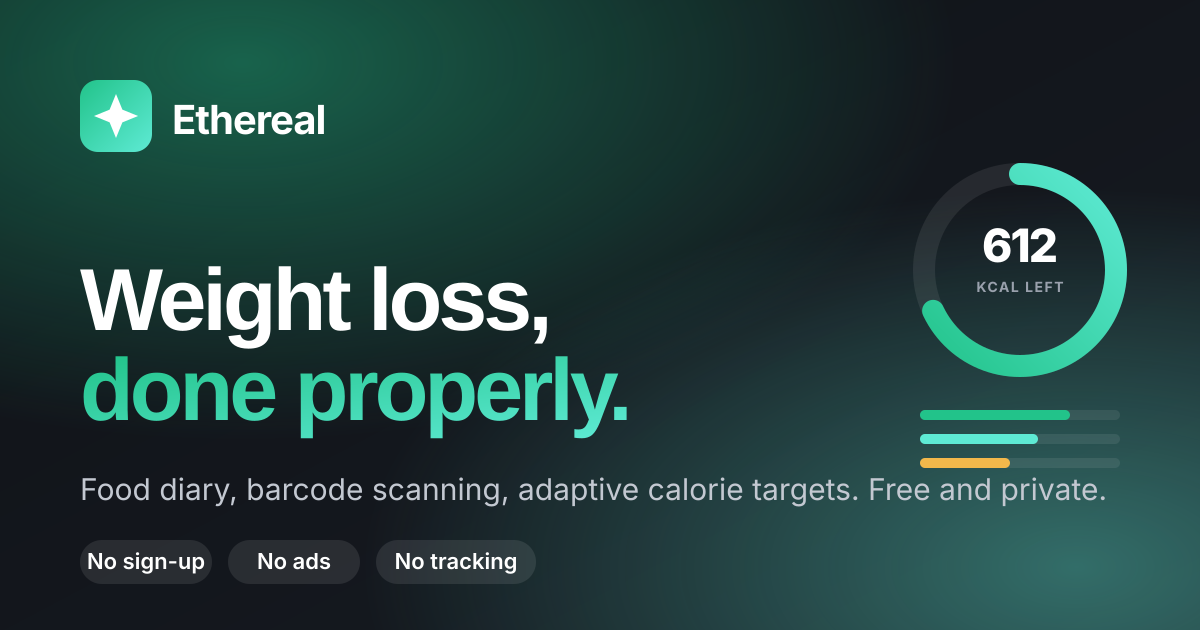
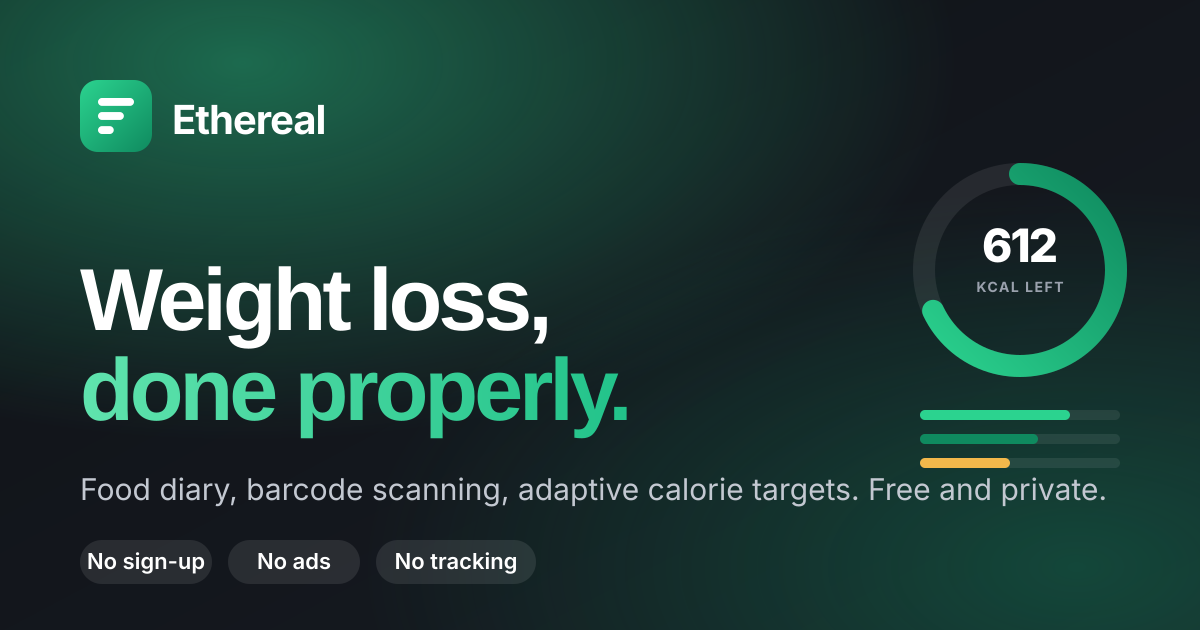
New mark, hero polish, and a real fix for phone-width overflow
- Logo: an "E" of three bars that get shorter, a letter and a downward
  trend in one shape; used in the header, footer, favicon, app icons and
  every social card.
- Home: floating trend and protein cards beside the phone, section
  eyebrows, gradient numerals in the numbers strip, a faint glow at the
  top of every page, a livelier calorie ring.
- Eating out: the chain sections sized the page to the widest table on
  phones, which pushed the order bar and "Best order" button off-screen
  on CI's mobile run. Grid columns are now minmax(0, 1fr) and sections
  min-w-0, so nothing overflows on any page (checked on 16 routes), and
  the root overflow clip that masked it is gone.
- Tests run with reduced motion for deterministic geometry; the Escape
  shortcut test retries across the sheet's hydration frame.

Claude-Session: https://claude.ai/code/session_01GyztRj6Jw5HwqMksHqf4CU

diff --git a/src/styles/global.css b/src/styles/global.css
@@ -49,6 +49,7 @@
 
   --animate-rise: rise 0.6s cubic-bezier(0.22, 1, 0.36, 1) backwards;
   --animate-fade: fade 0.5s ease-out backwards;
+  --animate-float: float 6s ease-in-out infinite;
 
   @keyframes rise {
     from {
@@ -68,6 +69,15 @@
       opacity: 1;
     }
   }
+  @keyframes float {
+    0%,
+    100% {
+      transform: translateY(0);
+    }
+    50% {
+      transform: translateY(-8px);
+    }
+  }
 }
 
 /* Semantic tokens: light by default, swapped under [data-theme=dark]. */
@@ -81,6 +91,7 @@
   --border: var(--color-ink-200);
   --border-strong: var(--color-ink-300);
   --ring: var(--color-brand-500);
+  --glow: oklch(94% 0.045 160 / 0.7);
   color-scheme: light;
 }
 [data-theme='dark'] {
@@ -92,18 +103,19 @@
   --fg-subtle: oklch(64% 0.01 250);
   --border: oklch(100% 0 0 / 0.09);
   --border-strong: oklch(100% 0 0 / 0.16);
+  --glow: oklch(63% 0.15 160 / 0.1);
   color-scheme: dark;
 }
 
 @layer base {
   html {
-    overflow-x: clip;
     scroll-behavior: smooth;
     text-rendering: optimizeLegibility;
     -webkit-font-smoothing: antialiased;
   }
   body {
-    background: var(--bg);
+    /* A faint glow at the top of every page gives the flat surfaces some depth. */
+    background: radial-gradient(70rem 28rem at 50% -14rem, var(--glow), transparent 70%), var(--bg);
     color: var(--fg);
     font-family: var(--font-sans);
     min-height: 100dvh;
@@ -305,6 +317,18 @@
     background: oklch(63% 0.15 160 / 0.12);
     color: var(--color-brand-200);
     border-color: oklch(63% 0.15 160 / 0.25);
+  }
+}
+@utility eyebrow {
+  display: inline-block;
+  margin-bottom: 0.6rem;
+  font-size: 0.75rem;
+  font-weight: 700;
+  letter-spacing: 0.08em;
+  text-transform: uppercase;
+  color: var(--color-brand-700);
+  [data-theme='dark'] & {
+    color: var(--color-brand-300);
   }
 }
 @utility tabular {

diff --git a/src/lib/og.ts b/src/lib/og.ts
@@ -39,12 +39,13 @@ export function wrap(text: string, width: number, lines: number): string[] {
   return out;
 }
 
-const star = (cx: number, cy: number, r: number) =>
-  `M${cx} ${cy - r}l${r * 0.29} ${r * 0.71}L${cx + r} ${cy}l-${r * 0.71} ${r * 0.29}L${cx} ${cy + r}l-${r * 0.29}-${r * 0.71}L${cx - r} ${cy}l${r * 0.71}-${r * 0.29}Z`;
+// The mark: three bars that get shorter (see src/components/Logo.astro).
+const BARS =
+  '<rect x="16" y="16" width="32" height="7" rx="3.5"/><rect x="16" y="28.5" width="23" height="7" rx="3.5"/><rect x="16" y="41" width="14" height="7" rx="3.5"/>';
 
 export function ogSvg(card: OgCard): string {
-  const brand = '#22c38a';
-  const accent = '#5eead4';
+  const brand = '#2bd38f';
+  const accent = '#0f8a5f';
   const hasRing = !!card.ring;
   const titleWidth = hasRing ? 26 : 34;
   const title = wrap(card.title, titleWidth, 3);
@@ -64,7 +65,7 @@ export function ogSvg(card: OgCard): string {
   <rect width="1200" height="630" fill="url(#bg)"/>
   <rect width="1200" height="630" fill="url(#glow)"/>
   <rect x="80" y="80" width="56" height="56" rx="14" fill="url(#g)"/>
-  <path d="${star(108, 108, 17)}" fill="#fff"/>
+  <g fill="#fff" transform="translate(80 80) scale(0.875)">${BARS}</g>
   <text x="152" y="122" font-family="Helvetica, Arial, sans-serif" font-size="32" font-weight="700" fill="#fff" letter-spacing="-1">Ethereal</text>
   <text x="80" y="212" font-family="Helvetica, Arial, sans-serif" font-size="22" font-weight="700" fill="${accent}" letter-spacing="3">${esc(card.kicker.toUpperCase())}</text>
   ${title

diff --git a/tests/e2e/diary.spec.ts b/tests/e2e/diary.spec.ts
@@ -183,8 +183,12 @@ test.describe('saved meals and sharing', () => {
     await expect(page.getByText(/^1 of \d+ glasses/)).toBeVisible();
     await page.keyboard.press('a');
     await expect(page.getByRole('dialog')).toBeVisible();
-    await page.keyboard.press('Escape');
-    await expect(page.getByRole('dialog')).toHaveCount(0);
+    // The sheet attaches its Escape listener in an effect just after it paints; retry rather
+    // than race a key press against that one frame.
+    await expect(async () => {
+      await page.keyboard.press('Escape');
+      await expect(page.getByRole('dialog')).toHaveCount(0, { timeout: 400 });
+    }).toPass();
   });
 
   test('tracker offers a share card once there is a trend', async ({ page }) => {

diff --git a/tests/e2e/smoke.spec.ts b/tests/e2e/smoke.spec.ts
@@ -269,7 +269,9 @@ test('eating-out page picks the highest-protein order that fits a calorie budget
   const budget = page.getByLabel('Calories to spend');
   await expect(budget).toHaveValue('500');
   const chipotle = page.locator('section#chipotle');
-  await chipotle.getByRole('button', { name: /Best order at Chipotle/ }).click();
+  const best = chipotle.getByRole('button', { name: /Best order at Chipotle/ });
+  await best.scrollIntoViewIfNeeded();
+  await best.click();
   const bar = chipotle.getByRole('status');
   await expect(bar).toContainText(/\d+ items? · \d+ kcal/);
   const text = (await bar.textContent()) ?? '';

diff --git a/playwright.config.ts b/playwright.config.ts
@@ -11,6 +11,8 @@ export default defineConfig({
   use: {
     baseURL: `http://localhost:${PORT}`,
     trace: 'on-first-retry',
+    // Deterministic geometry: no smooth scrolling or entrance animations while clicking.
+    reducedMotion: 'reduce',
     // Lets a sandbox with a preinstalled Chromium run the suite without downloading a browser.
     ...(process.env.PW_CHROMIUM_PATH
       ? { launchOptions: { executablePath: process.env.PW_CHROMIUM_PATH } }

diff --git a/src/components/ui/Ring.tsx b/src/components/ui/Ring.tsx
@@ -40,7 +40,7 @@ export function Ring({ value, size = 180, stroke = 14, label, children, tone = '
               </>
             ) : (
               <>
-                <stop offset="0" stop-color="var(--color-brand-400)" />
+                <stop offset="0" stop-color="var(--color-brand-300)" />
                 <stop offset="1" stop-color="var(--color-brand-600)" />
               </>
             )}
